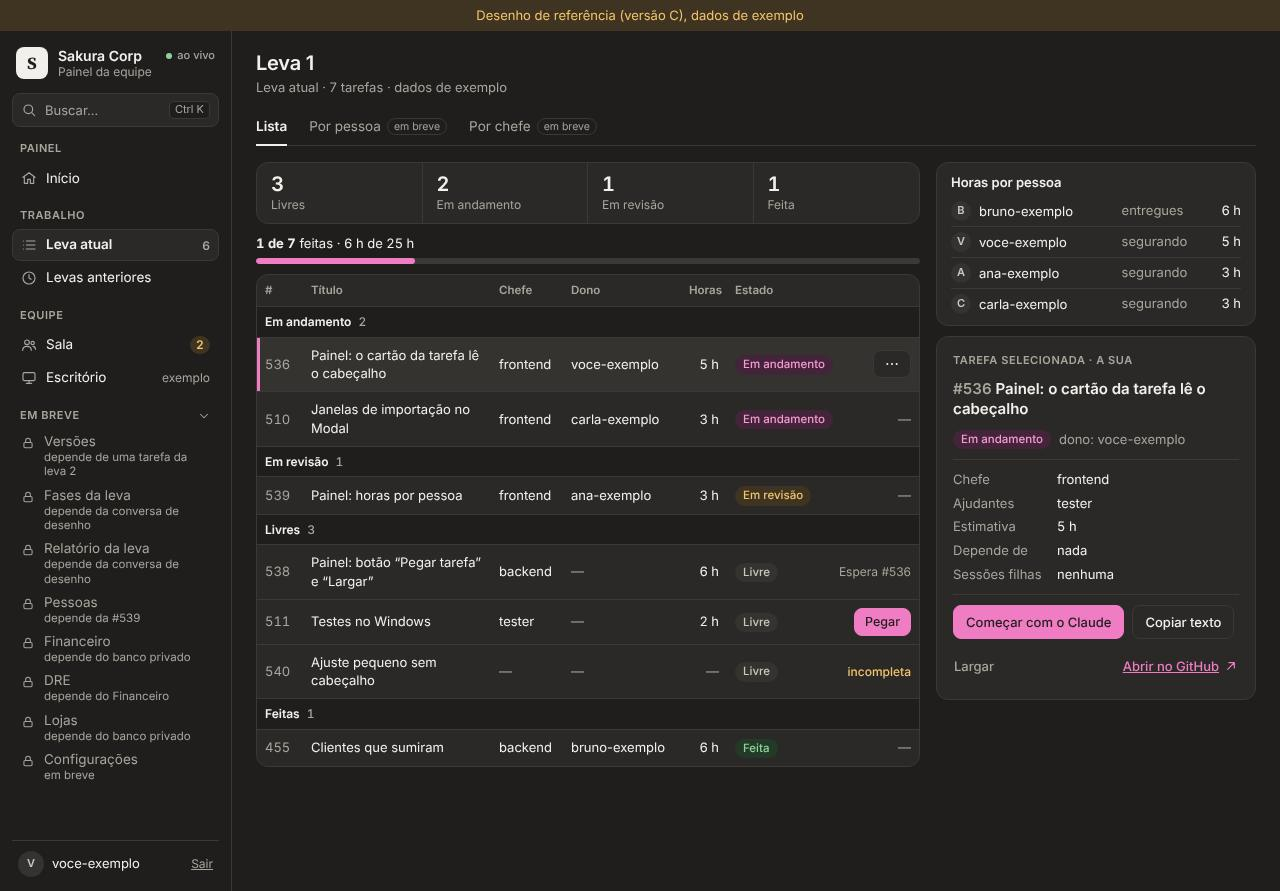
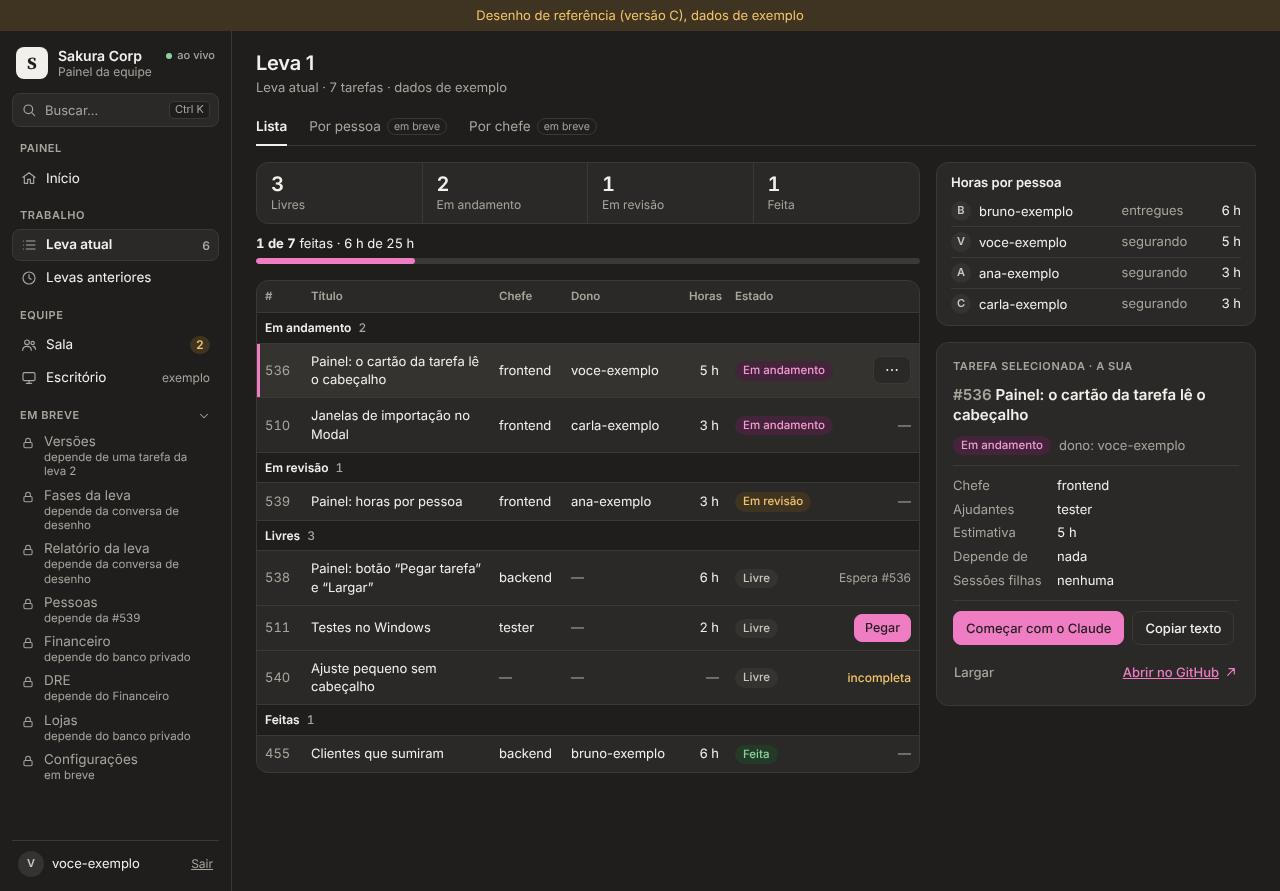
Painel v2: versão C (rascunho, em andamento)
Claude-Session: https://claude.ai/code/session_0158Dwe3s7gWC25Ktu1Hifij

diff --git a/docs/referencia/painel-v2/versao-c/estilo.css b/docs/referencia/painel-v2/versao-c/estilo.css
@@ -69,7 +69,7 @@ a.item.breve { cursor: pointer; }
 
 /* ---------- Leva ---------- */
 .leva-grade { display: grid; grid-template-columns: minmax(0, 1fr); gap: 16px; align-items: start; }
-.col-a, .col-b { min-width: 0; display: grid; gap: 10px; align-content: start; }
+.col-a, .col-b { min-width: 0; display: grid; gap: 16px; align-content: start; }
 @media (min-width: 1100px) {
   .leva-grade { grid-template-columns: minmax(0, 1fr) 320px; }
   .detalhe { position: sticky; top: 16px; }

diff --git a/docs/referencia/painel-v2/versao-c/notas.md b/docs/referencia/painel-v2/versao-c/notas.md
@@ -1,0 +1,31 @@
+# Versão C, "Central": as escolhas
+
+Denso e profissional, jeito de ferramenta de gestão: tabela e painel de detalhe. Tudo com dados de exemplo.
+
+- **Barra lateral** de 232 px, no mesmo fundo da página, separada só por uma linha fina. No topo, o seletor
+  de espaço (quadradinho "S" + Sakura Corp + "ao vivo") e a caixa "Buscar… Ctrl K" (só desenhada, "em breve").
+  Grupos com título pequeno e contador à direita (Leva atual 6, Sala 2). O que ainda não existe fica junto num
+  grupo "Em breve" que recolhe, cada item dizendo do que depende. A página atual é marcada só por um fundo
+  branco com borda fina, sem cor forte.
+- **Títulos** em Inter semibold 20 px; a letra com serifa só aparece na saudação do Início.
+- **Leva**: uma faixa com 4 números pequenos, as horas por pessoa numa tabelinha e a lista como **tabela
+  densa** agrupada por estado (com a contagem), com chefe, dono, horas, estado e a ação ("Pegar", "Espera #536",
+  "incompleta" ou o menu da sua). À direita, o **painel de detalhe** da #536 com chefe, ajudantes, estimativa,
+  "depende de", sessões filhas e os botões. As abas "Por pessoa" e "Por chefe" aparecem desligadas ("em breve").
+- **Início**: saudação, faixa "Precisa de você" com a ação em cada linha e três blocos (a sua tarefa, a leva,
+  o que mudou hoje em linha do tempo).
+- **Celular**: topo com o nome da página e o botão de menu (abre a navegação inteira); a tabela vira lista de
+  duas alturas (título em cima; selo, dono e horas embaixo), sem rolagem lateral; o detalhe vem logo abaixo
+  como cartão; botões de 44 px. A barra de 4 itens (Início, Leva, Sala, Mais) fica **no fim da página** nas fotos;
+  no programa de verdade ela ficaria presa na parte de baixo da tela (nas fotos, que são da página inteira,
+  uma barra presa apareceria no meio da imagem).
+- **Em breve (Financeiro)**: esqueleto apagado (blocos cinza, sem número nenhum) com os rótulos "Entradas",
+  "Saídas" e "Resultado do mês", e por cima um cartão com "Em breve", do que depende e por que o dinheiro
+  nunca mora no GitHub.
+- Só as cores de `comum/base.css`; ícones desenhados à mão no próprio arquivo; sem biblioteca e sem JavaScript.
+- "Levas anteriores" e "Escritório" não têm página neste desenho (os links só levam à Leva ou não vão a lugar nenhum).
+
+## Resultado do conferir
+
+`node docs/referencia/painel-v2/comum/conferir.mjs docs/referencia/painel-v2/versao-c inicio.html leva.html sala.html em-breve.html`
+deu **TUDO OK**: as 16 fotos sem problema de contraste e sem rolagem lateral. As 16 fotos foram olhadas uma a uma.
